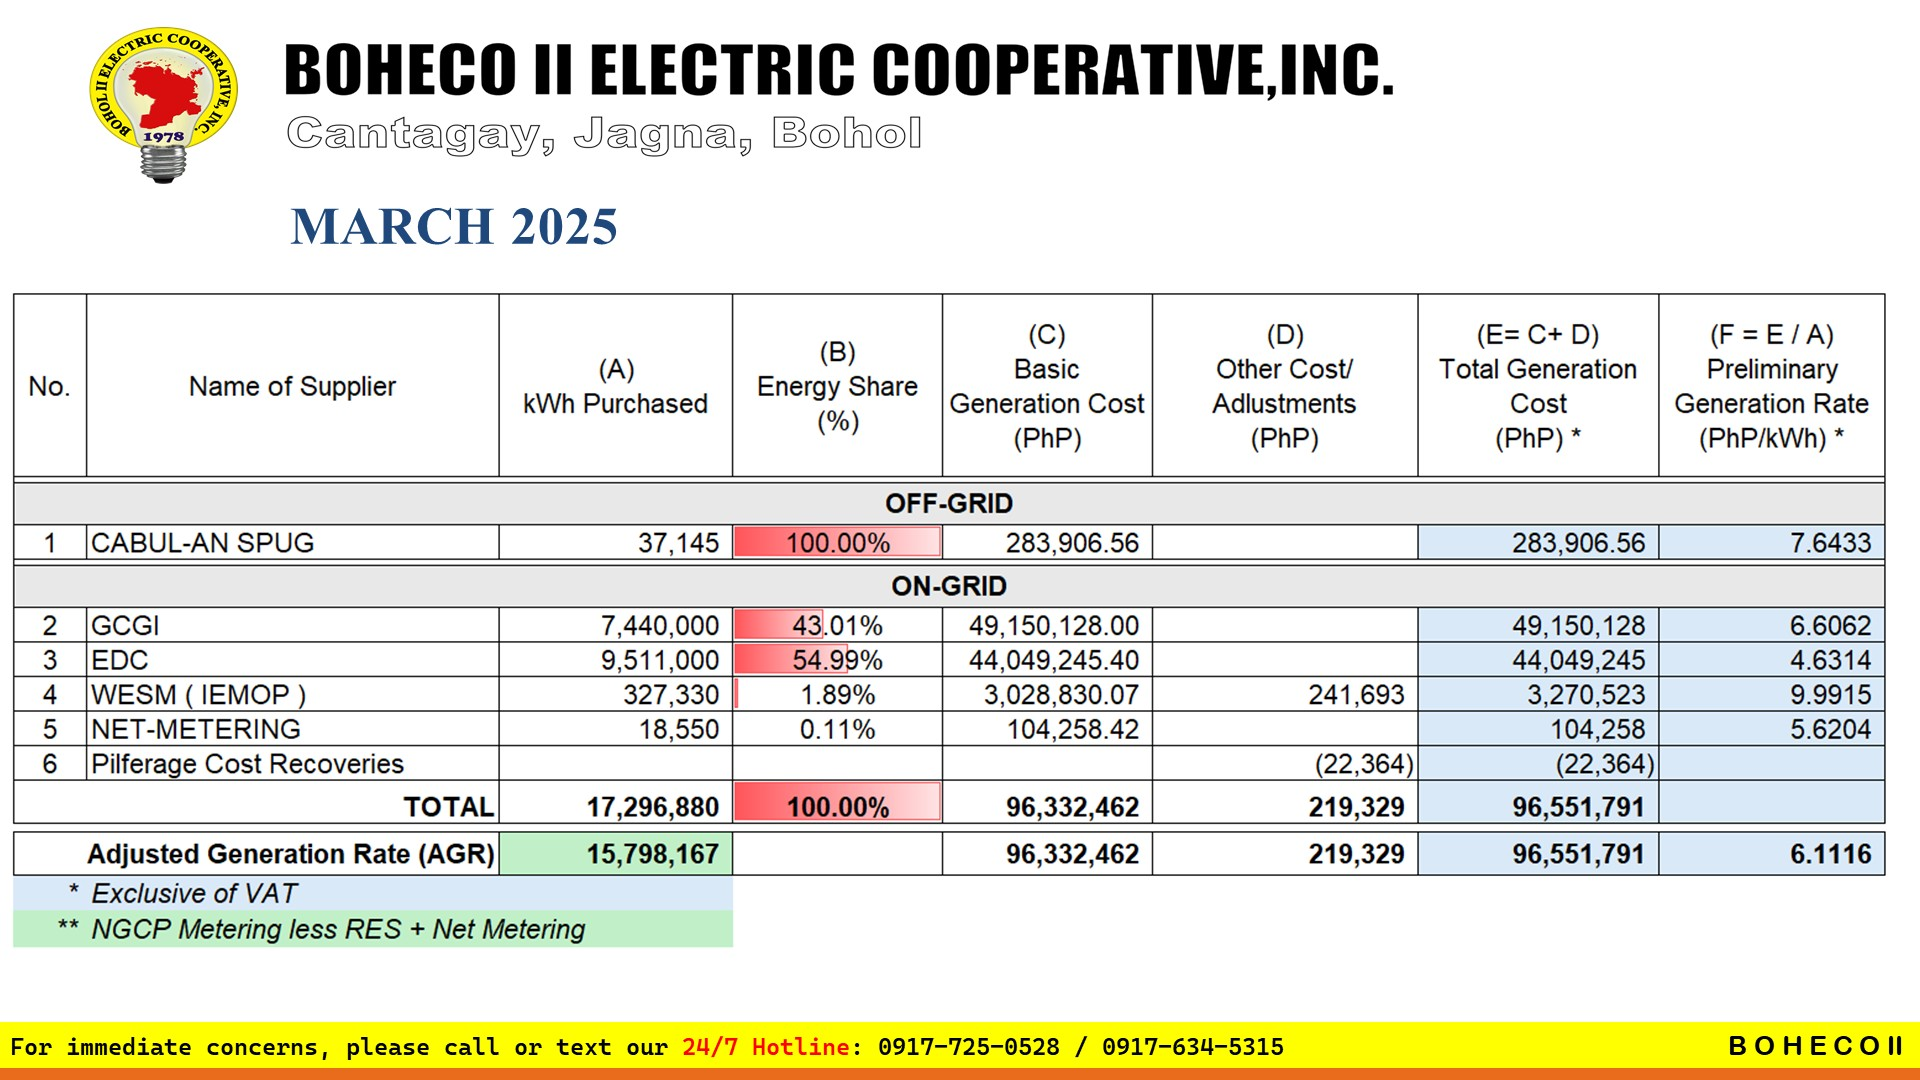
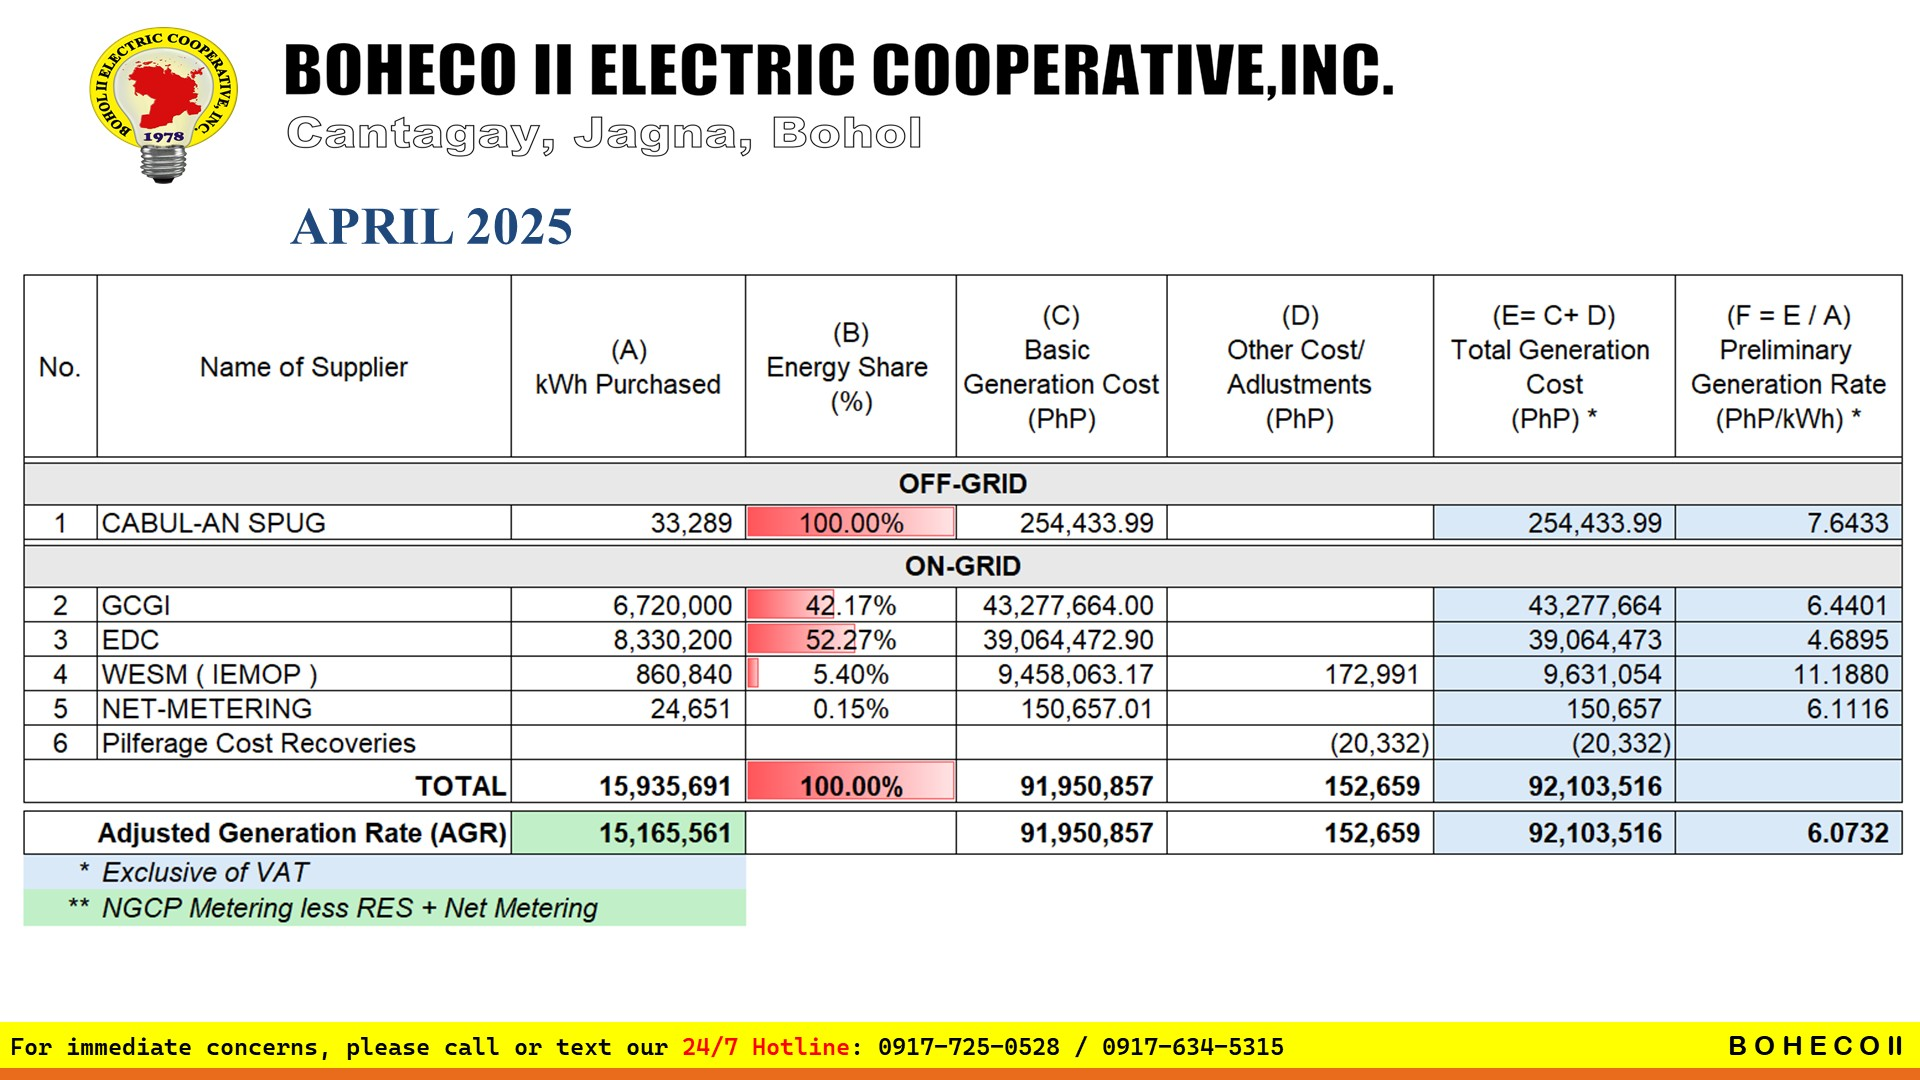
update april power rate & gen charge 2025

Changed region(s): [[0.0, 0.1833, 1.0, 0.8861], [0.0938, 0.3361, 0.2188, 0.3667], [0.0, 0.3056, 0.0625, 0.3667]]

diff --git a/src/components/Rates.jsx b/src/components/Rates.jsx
@@ -1,10 +1,10 @@
 import React from "react";
 
 const img = [
-  "assets/rates/mar2025/slide1.JPG",
-  "assets/rates/mar2025/slide2.JPG",
-  "assets/rates/mar2025/slide3.JPG",
-  "assets/rates/mar2025/slide4.JPG",
+  "assets/rates/apr2025/slide1.JPG",
+  "assets/rates/apr2025/slide2.JPG",
+  "assets/rates/apr2025/slide3.JPG",
+  "assets/rates/apr2025/slide4.JPG",
 ];
 
 const Rates = () => {

diff --git a/src/components/GenRates.jsx b/src/components/GenRates.jsx
@@ -2,11 +2,11 @@ import React from "react";
 
 const img = [
   "assets/rates/gr0.JPG",
-  "assets/rates/gr1.png",
+  "assets/rates/gr1.JPG",
   "assets/rates/gr2.png",
 ];
 
-const months = ["March", "February", "January"];
+const months = ["April", "March", "February"];
 
 const Rates = () => {
   return (
